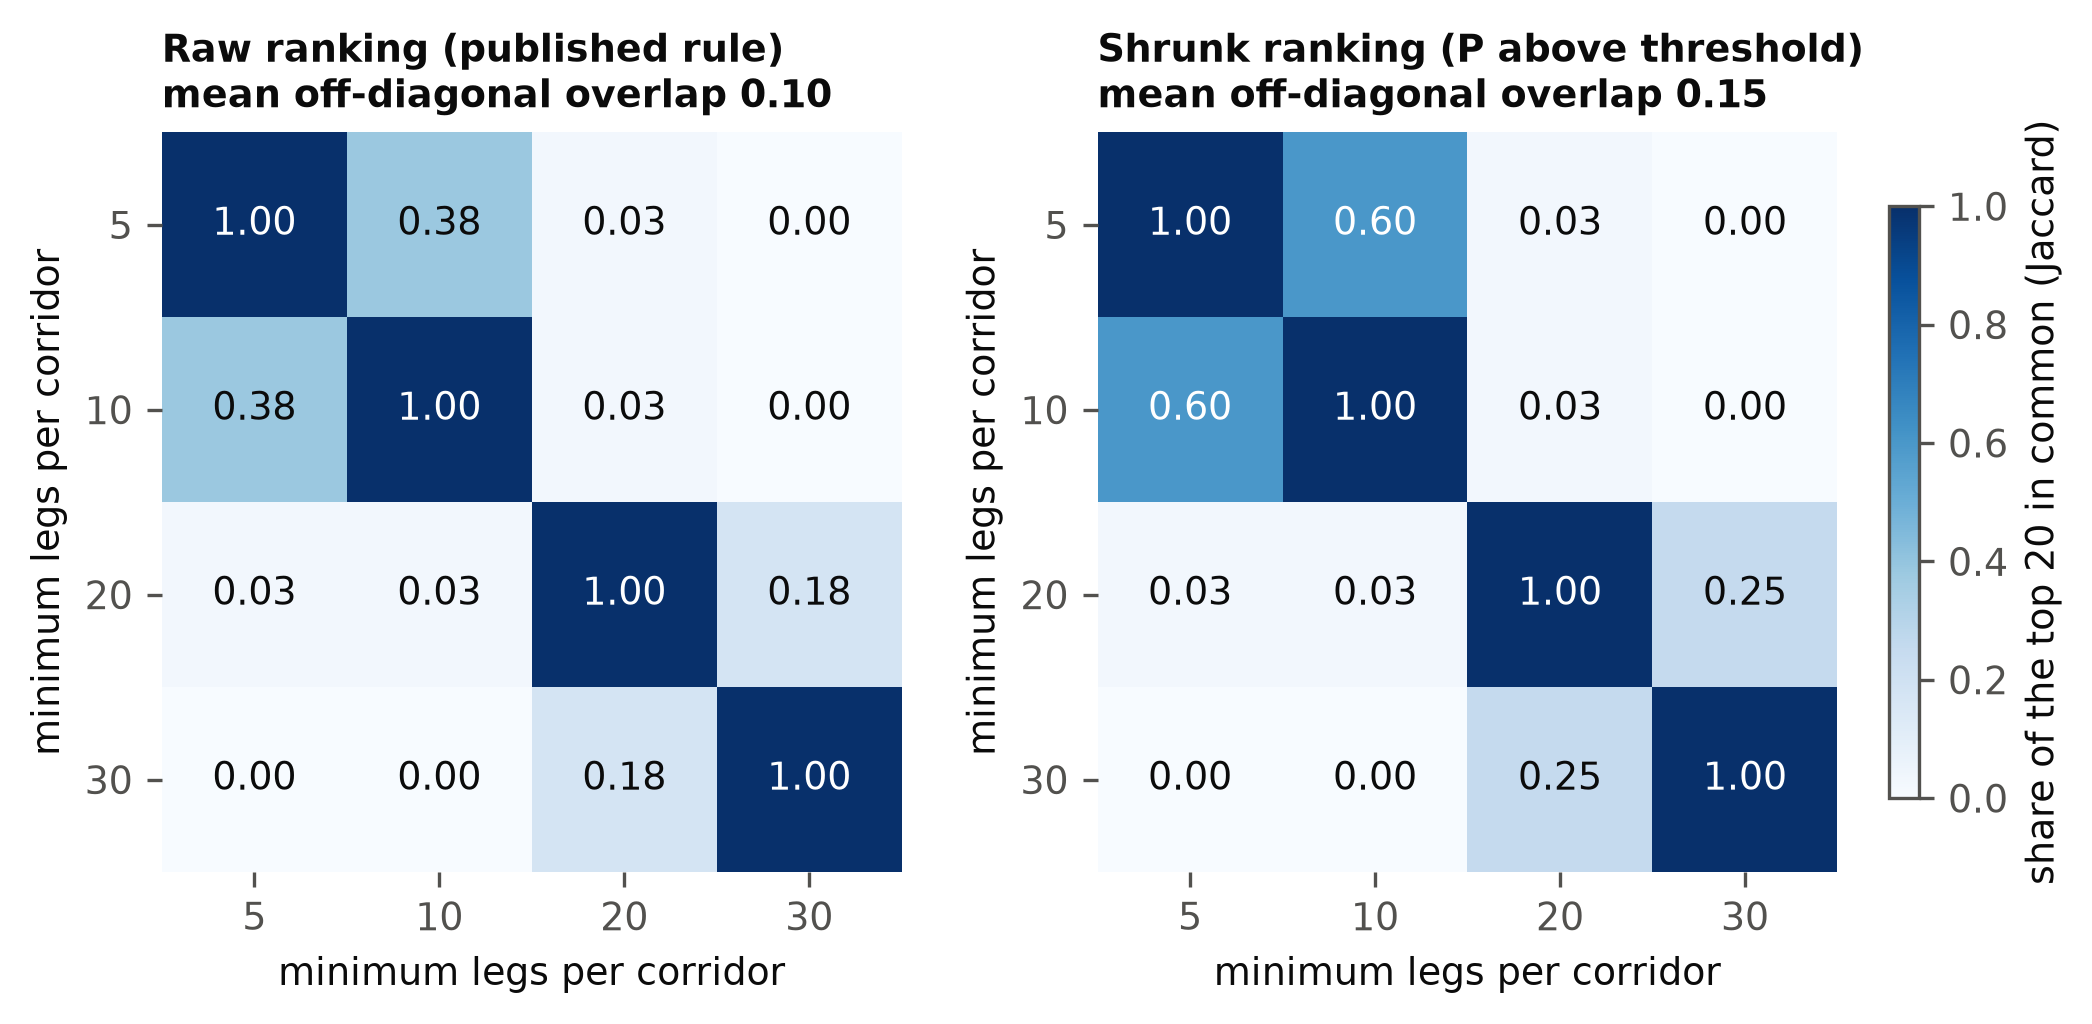
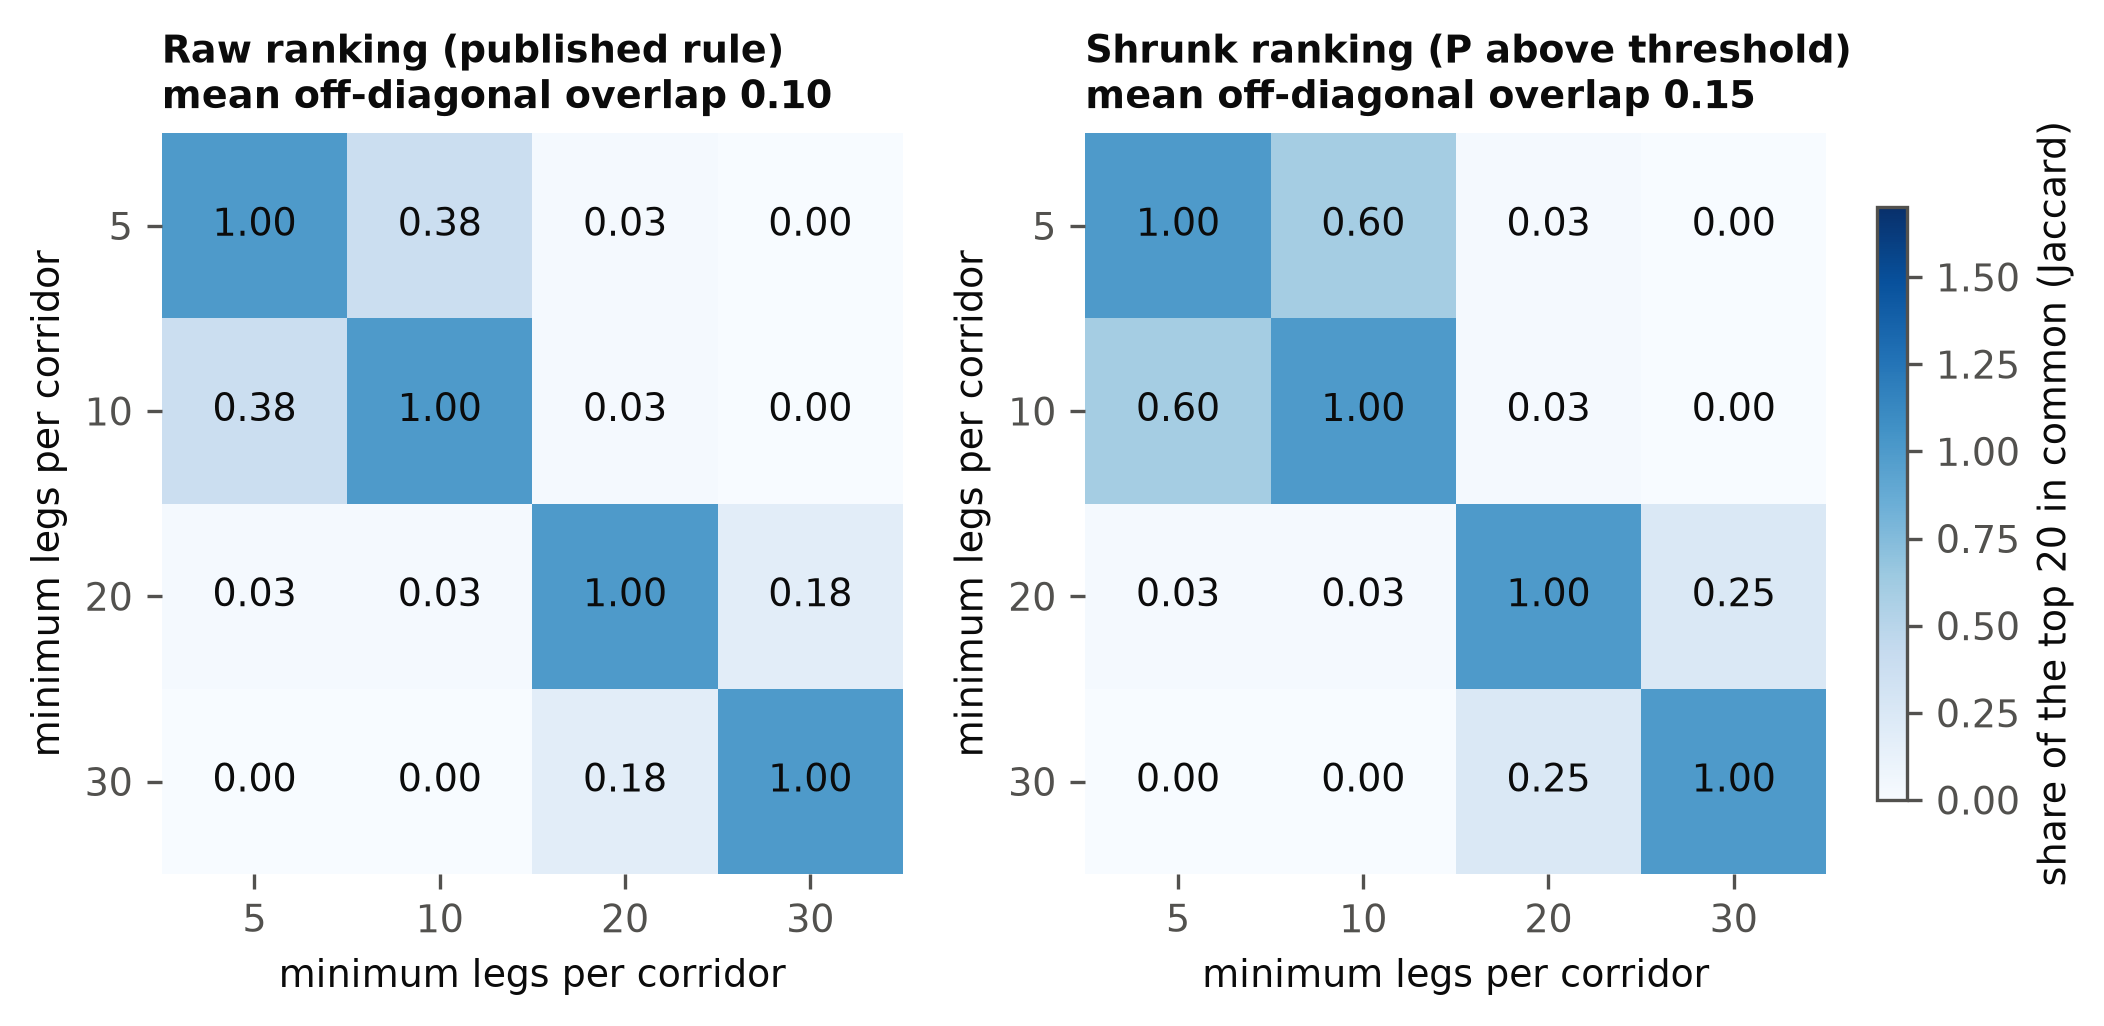
fix a commented-out paragraph, wording and a heatmap label colour

diff --git a/paper/sections/audit.tex b/paper/sections/audit.tex
@@ -52,7 +52,7 @@ The original procedure finds \fzBottlenecks{} corridors significantly slower and
 
 \paragraph{What the strictest result does not say.} The headline is partly a property of the test's resolution. With $B=100{,}000$ the smallest attainable permutation $p$ is $1/(B+1)\approx 10^{-5}$, which is larger than the smallest BY threshold ($0.05/(1130\cdot 7.6)=5.8\times10^{-6}$), so that variant \emph{cannot} reject any corridor however large its effect, and BH needs $p\le 4.4\times 10^{-5}$ for its first rejection. The permutation $p$-values are not empty: \fzAuditPermPBelowFivePct{} corridors fall below 0.05 and \fzAuditPermPBelowOnePct{} below 0.01, and the top-20 slow corridors ranked by permutation $p$ overlap the Welch top-20 at Jaccard \fzAuditTopTwentyJaccardListDpTwo{}. Section~\ref{sec:stability} supplies the evidence that matters here: whether the corridor effects replicate. Our reading is that the \fzBottlenecks{} are a \emph{screening list}, not confirmed bottlenecks, and that the data cannot separate a corridor effect from a service effect for the corridors that run under one service.
 
-\paragraph{What a zero means: a power study.} A zero is ambiguous between no effect and a test too weak to see one, so we measured the test. In the placebo world (real cell structure, cell means shuffled, no corridor effect anywhere) we planted a known shift of the log ratio into 30 corridors, 10 in each of three leg-count bins, and ran all four variants on 30 simulated datasets per shift; permutation $p$-values are exact down to $10^{-6}$ against a null bank checked against the real run (no corridor classified differently under BH or BY). The cell-permutation test is correctly sized (with no planted effect, \fzPowerPermSizeByPct{}\% of datasets show a BY rejection) and nearly blind: at a shift of 0.5, a 1.65-fold larger overrun, it finds \fzPowerByPermShiftHalfPct{}\% of planted corridors, and at a shift of 1.0, a 2.7-fold overrun, \fzPowerByPermShiftOnePct{}\% under BY and \fzPowerBhPermShiftOnePct{}\% under BH, rising to \fzPowerByPermLargeShiftOnePct{}\% for corridors with 25 or more legs and falling to \fzPowerByPermSmallShiftOnePct{}\% for 10 to 14 legs (Fig.~\ref{fig:power}). It never reaches 80% on the grid. The reason is the null itself: it mixes all cells of a size stratum, and real heterogeneity between services already spreads the cell means widely, so one corridor must stand far out. Welch fails in the other direction: it finds planted corridors easily, but at a shift of 0.5 \fzPowerWelchBhFdpShiftHalfPct{}\% of its discoveries are not planted corridors (nominal 5%), and with nothing planted it still rejects \fzPowerWelchBhRateShiftZeroPct{}\% of the corridors it was asked to find. So the zero says almost nothing about whether corridor effects exist, and it does show that the standard test's discoveries are mostly false; corridor effects rest on the stability result below, not on any single-corridor test.
+\paragraph{What a zero means: a power study.} A zero is ambiguous between no effect and a test too weak to see one, so we measured the test. In the placebo world (real cell structure, cell means shuffled, no corridor effect anywhere) we planted a known shift of the log ratio into 30 corridors, 10 in each of three leg-count bins, and ran all four variants on 30 simulated datasets per shift; permutation $p$-values are exact down to $10^{-6}$ against a null bank checked against the real run (no corridor classified differently under BH or BY). The cell-permutation test is correctly sized (with no planted effect, \fzPowerPermSizeByPct{}\% of datasets show a BY rejection) and nearly blind: at a shift of 0.5, a 1.65-fold larger overrun, it finds \fzPowerByPermShiftHalfPct{}\% of planted corridors, and at a shift of 1.0, a 2.7-fold overrun, \fzPowerByPermShiftOnePct{}\% under BY and \fzPowerBhPermShiftOnePct{}\% under BH, rising to \fzPowerByPermLargeShiftOnePct{}\% for corridors with 25 or more legs and falling to \fzPowerByPermSmallShiftOnePct{}\% for 10 to 14 legs (Fig.~\ref{fig:power}). It never reaches 80\% on the grid. The reason is the null itself: it mixes all cells of a size stratum, and real heterogeneity between services already spreads the cell means widely, so one corridor must stand far out. Welch fails in the other direction: it finds planted corridors easily, but at a shift of 0.5 \fzPowerWelchBhFdpShiftHalfPct{}\% of its discoveries are not planted corridors (nominal 5\%), and with nothing planted it still rejects \fzPowerWelchBhRateShiftZeroPct{}\% of the corridors it was asked to find. So the zero says almost nothing about whether corridor effects exist, and it does show that the standard test's discoveries are mostly false; corridor effects rest on the stability result below, not on any single-corridor test.
 
 \begin{figure}[t]
 \centering
@@ -78,4 +78,4 @@ Pre-registered hypothesis: shrinkage removes the floor dependence. \textbf{It do
 \subsection{Do the corridor effects persist?}\label{sec:stability}
 We split the creation dates into two halves (12 and 11 dates), run the audit separately in each, and compare. The comparison universe is the \fzStabilityUniverse{} corridors testable in both halves at a floor of five legs per half. The raw corridor means correlate across halves at $\rho=\fzStabilitySpearmanDpTwo{}$. The slower sets of the two halves (Welch, BH) share Jaccard \fzStabilityJaccardDpTwo{} of their members against about 32 corridors expected by chance (hypergeometric $p<10^{-80}$), and \fzStabilityStillSlowerPct{}\% of the first half's slower corridors are also slower than the network in the second half, against a base rate of \fzStabilityBaseRatePct{}\% of corridors that are slower in the second half. By contrast the cell-permutation test with BY control finds nothing in either half or in any third. The two facts fit together: the pattern is persistent, but a corridor effect is not distinguishable from a service effect, and the same recurring services run in both halves, so persistence is not independent replication. The period is 22 calendar days of one season; Section~\ref{sec:threats} lists this among the limits.
 
-\paragraph{Standard reliability indices.} The planning time index (95th percentile of travel time over free-flow time) and the buffer index are the usual descriptors of freight corridors\cite{fhwa2005reliability,jones2005measuring}. On the ratio scale, with the recorded OSRM time as free-flow time, the planning time index tracks the audit's mean log ratio closely (Spearman \fzIdxSpearmanPtiVsMeanDpTwo{}) and the buffer index does not (\fzIdxSpearmanBiVsMeanDpTwo{}). Between the two halves of the period the mean log ratio is the most stable descriptor (\fzIdxStabMeanDpTwo{}), the planning time index less so (\fzIdxStabPtiDpTwo{}, interval [\fzIdxStabPtiCiLowDpTwo{}, \fzIdxStabPtiCiHighDpTwo{}]) and the buffer index least (\fzIdxStabBiDpTwo{}, [\fzIdxStabBiCiLowDpTwo{}, \fzIdxStabBiCiHighDpTwo{}]); the intervals separate. A 95th percentile of 10 to 15 legs is a noisy statistic, so the standard indices add nothing that the mean does not carry here, and the buffer index is a poor ranking at this sample size.
+\paragraph{Standard reliability indices.} The planning time index (95th percentile of travel time over free-flow time) and the buffer index are the usual descriptors of freight corridors~\cite{fhwa2005reliability,jones2005measuring}. On the ratio scale, with the recorded OSRM time as free-flow time, the planning time index tracks the audit's mean log ratio closely (Spearman \fzIdxSpearmanPtiVsMeanDpTwo{}) and the buffer index does not (\fzIdxSpearmanBiVsMeanDpTwo{}). Between the two halves of the period the mean log ratio is the most stable descriptor (\fzIdxStabMeanDpTwo{}), the planning time index less so (\fzIdxStabPtiDpTwo{}, interval [\fzIdxStabPtiCiLowDpTwo{}, \fzIdxStabPtiCiHighDpTwo{}]) and the buffer index least (\fzIdxStabBiDpTwo{}, [\fzIdxStabBiCiLowDpTwo{}, \fzIdxStabBiCiHighDpTwo{}]); the intervals separate. A 95th percentile of 10 to 15 legs is a noisy statistic, so the standard indices add nothing that the mean does not carry here, and the buffer index is a poor ranking at this sample size.

diff --git a/paper/sections/intro.tex b/paper/sections/intro.tex
@@ -9,10 +9,10 @@ That last clause matters because a first analysis of these data was more flatter
 \item \textbf{A way to measure a corridor audit's own error.} A placebo (real cell structure, no corridor effect) and a power simulation (known shifts planted into 30 corridors) show that the standard Welch audit is wrong in about \fzPowerWelchBhFdpShiftHalfPct{}\% of its discoveries on this network, and that the dependence-aware replacement is correctly sized but finds only \fzPowerByPermShiftOnePct{}\% of corridors even when a 2.7-fold overrun is planted (Section~\ref{sec:audit}). A zero from such a test cannot be read as absence.
 \item \textbf{A dependence-aware audit and the evidence that corridor effects nonetheless persist.} Legs of one recurring service are correlated (design effect about 2); a permutation test whose unit is the (corridor, service) cell confirms \fzAuditRobustHeadlineSlower{} of the \fzBottlenecks{} slow corridors, yet corridor means correlate at \fzStabilitySpearmanDpTwo{} between the two halves of the period.
 \item \textbf{Two remedies that do not rescue the ranking.} Empirical-Bayes shrinkage, with a normal or a heavy-tailed prior, leaves top-20 lists nearly as unstable across support floors (overlap \fzEbTopTwentyJaccardEbDpTwo{} against \fzEbTopTwentyJaccardRawDpTwo{}), because the cause is who is eligible; and the standard planning-time and buffer indices are less stable than the mean they summarise.
-\item \textbf{A residual model over a fair baseline, with intervals and a serving proof.} A hierarchical back-off bar replaces a baseline with an unfair cold-start fallback; the reported model beats it by \fzReportedVsBarDeltaDpTwo{} minutes (day-block 95\% interval [\fzReportedVsBarCiLowDpTwo{}, \fzReportedVsBarCiHighDpTwo{}]), on all \fzSlicesTotal{} slices and in every rolling fold, mostly on corridors without history; the deployed Spark model is not robust across folds. The reported model is exact through the serving reader and the running stream.
+\item \textbf{A residual model over a fair baseline, with intervals and a serving proof.} A hierarchical back-off bar replaces a baseline with an unfair cold-start fallback; the reported model beats it (difference \fzReportedVsBarDeltaDpTwo{} minutes; day-block 95\% interval [\fzReportedVsBarCiLowDpTwo{}, \fzReportedVsBarCiHighDpTwo{}]), on all \fzSlicesTotal{} slices and in every rolling fold, mostly on corridors without history; the deployed Spark model is not robust across folds. The reported model is exact through the serving reader and the running stream.
 \item \textbf{Two evaluation pitfalls and what they teach}: an optimiser default that disabled the loss the model was chosen for, and a replay that scored early events with later history (Section~\ref{sec:pitfalls}).
 \end{enumerate}
-We do not claim to beat the planner: the OSRM estimate has no access to corridor history, and a model that does is not a fair comparison. OSRM is reported as context throughout. The batch analyses sit inside a streaming serving path and a measured agent layer, which the journal version describes; both evaluation pitfalls arose there, and the agents' data are synthetic.
+We do not claim to beat the planner: the OSRM estimate has no access to corridor history, and a model that does is not a fair comparison. OSRM is reported as context throughout. The batch analyses sit inside a streaming serving path and a measured agent layer, described \ifjournal in Sections~\ref{sec:stream} and~\ref{sec:agents}\else in the extended version\fi; both evaluation pitfalls arose there, and the agents' data are synthetic.
 
 \ifjournal
 \begin{figure}[t]

diff --git a/paper/sections/conclusion.tex b/paper/sections/conclusion.tex
@@ -1,6 +1,6 @@
 \section{Conclusion}\label{sec:conclusion}
 
-The OSRM estimate recorded in the Delhivery data errs one way almost always, and that error is real but harder to localise than a first analysis suggested. A standard Welch audit flags \fzBottlenecks{} slow and \fzFasterCorridors{} fast corridors, but on this network that procedure also reports about \fzAuditPlaceboDiscoveriesDpOne{} discoveries when corridor labels carry no information, and the cluster-aware test confirms none of them at its pre-registered strictness. The corridor effects nonetheless persist between halves of the period (rank correlation \fzStabilitySpearmanDpTwo{}), so the list is best read as a screening list whose members are real as patterns of recurring services and not yet as separable corridor effects. Empirical-Bayes ranking is a little better calibrated and no cure for the support floor. For prediction, a residual model over a fair back-off bar wins by \fzReportedVsBarDeltaDpTwo{} minutes with an interval that excludes zero, almost all of it where the bar has no history. Two findings concern evaluation rather than the network: an optimiser default that disabled the chosen loss, and a replay that leaked the future into alert scoring, which inflated a precision from 58.6\% to 72.1\%.
+The OSRM estimate recorded in the Delhivery data errs one way almost always, and that error is real but harder to localise than a first analysis suggested. A standard Welch audit flags \fzBottlenecks{} slow and \fzFasterCorridors{} fast corridors, but on this network that procedure also reports about \fzAuditPlaceboDiscoveriesDpOne{} discoveries when corridor labels carry no information, and the cluster-aware test confirms none of them at its pre-registered strictness. The corridor effects nonetheless persist between halves of the period (rank correlation \fzStabilitySpearmanDpTwo{}), so the list is best read as a screening list whose members are real as patterns of recurring services and not yet as separable corridor effects. Empirical-Bayes ranking is a little better calibrated and no cure for the support floor. For prediction, a residual model over a fair back-off bar wins, with a difference of \fzReportedVsBarDeltaDpTwo{} minutes and an interval that excludes zero, almost all of it where the bar has no history. Two findings concern evaluation rather than the network: an optimiser default that disabled the chosen loss, and a replay that leaked the future into alert scoring, which inflated a precision from 58.6\% to 72.1\%.
 
 Future work: an audit over a longer period and several carriers, to separate corridor from service effects; a human-labelled comparison for the agent layer; and a live evaluation of alert precision.
 

diff --git a/paper/sections/threats.tex b/paper/sections/threats.tex
@@ -1,6 +1,6 @@
 \section{Threats to Validity}\label{sec:threats}
 
-\paragraph{Internal validity.} The cell-permutation test is a global-null permutation: with real corridor effects in the pool it is conservative for the strongest corridors, and it treats cells of one size stratum as equally noisy. Its strictest variant is resolution-limited at $10^{5}$ permutations (Section~\ref{sec:audit}); a ten-fold finer run, which rejects nothing either, is reported in the appendix of the journal version. Cells in different corridors that share a trip stay independent in the scheme, which BY control is meant to cover. The as-of rule prevents the leak we found in a streaming replay (Section~\ref{sec:replay}), but any further replay-based measurement inherits the risk. A leg created just before a rolling-origin window may finish inside it, so its label is not strictly known at the cut.
+\paragraph{Internal validity.} The cell-permutation test is a global-null permutation: with real corridor effects in the pool it is conservative for the strongest corridors, and it treats cells of one size stratum as equally noisy. Its strictest variant is resolution-limited at $10^{5}$ permutations (Section~\ref{sec:audit}); a ten-fold finer run, which rejects nothing either, is part of the released results. Cells in different corridors that share a trip stay independent in the scheme, which BY control is meant to cover. The as-of rule prevents the leak we found in a streaming replay (Section~\ref{sec:replay}), but any further replay-based measurement inherits the risk. A leg created just before a rolling-origin window may finish inside it, so its label is not strictly known at the cut.
 
 \paragraph{External validity.} One operator, one country and 22 calendar days of leg creation, in one season of 2018. Whether the corridors flagged persist over months or across carriers is untested; our persistence result is within the 22 days and the same recurring services run in both halves. The data record that a leg ran late, not why.
 

diff --git a/src/report/figures_audit.py b/src/report/figures_audit.py
@@ -79,11 +79,11 @@ def b4_eb_stability_heatmap() -> list:
             fa, fb = (int(x) for x in row["floors"].split("|"))
             i, j = FLOORS.index(fa), FLOORS.index(fb)
             m[i, j] = m[j, i] = row["jaccard_top20"]
-        im = ax.imshow(m, vmin=0, vmax=1, cmap="Blues")
+        im = ax.imshow(m, vmin=0, vmax=1.7, cmap="Blues")
         for i in range(len(FLOORS)):
             for j in range(len(FLOORS)):
                 ax.text(j, i, f"{m[i, j]:.2f}", ha="center", va="center", fontsize=9,
-                        color="white" if m[i, j] > 0.55 else INK)
+                        color=INK)
         ax.set_xticks(range(len(FLOORS)), [str(f) for f in FLOORS])
         ax.set_yticks(range(len(FLOORS)), [str(f) for f in FLOORS])
         ax.set_xlabel("minimum legs per corridor")
